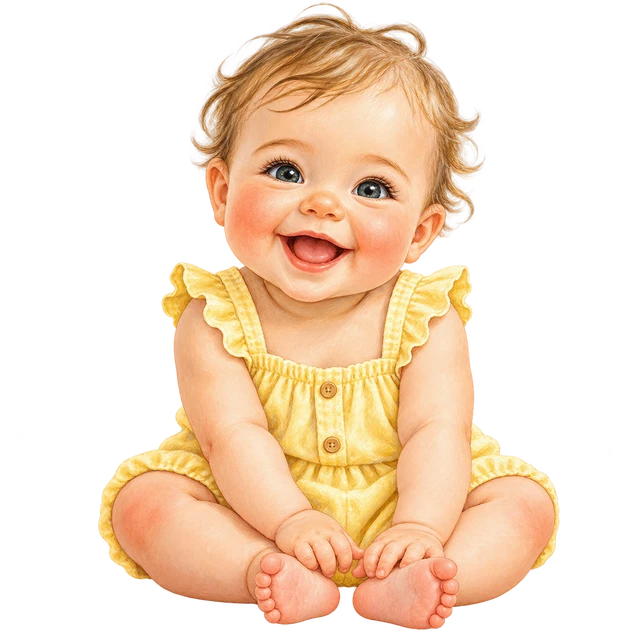
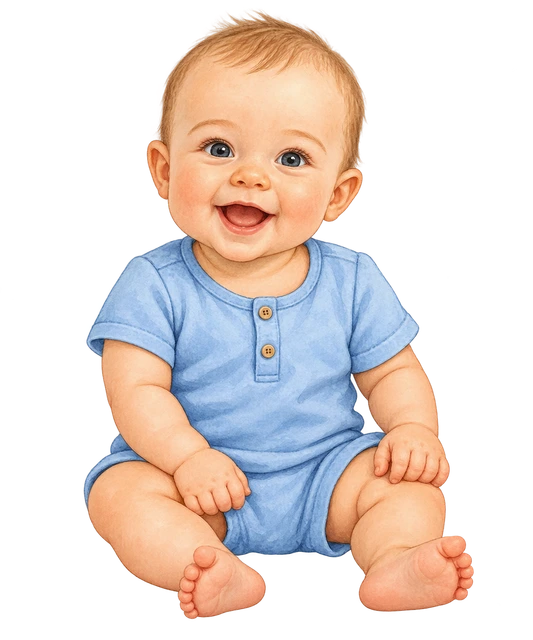
Replace baby illustration and add Genially cover Забрось шайбу

diff --git a/ART-UPDATE.md b/ART-UPDATE.md
@@ -1,0 +1,11 @@
+## Обновлённый малыш и обложка «Забрось шайбу!»
+
+Встроенный ImageGen. Малыш заменён на мальчика-младенца в простом голубом комбинезоне. Обложка — отдельный файл для Genially, игровой интерфейс не менялся.
+
+### Baby
+
+Use case: illustration-story. Educational Russian vocabulary picture for word малыш. A single unmistakably very young BABY BOY aged 6-8 months, sitting with chubby little legs, round infant face, very sparse short soft light brown baby hair, small ears, natural cheerful smile, realistic infant proportions. Wearing a simple powder-blue short-sleeved baby romper with shorts and two tiny buttons, bare feet. NO dress, NO ruffles, NO bows, NO long hair, NO older toddler. Premium soft hand-painted gouache children's book illustration, warm natural skin, gentle tactile painted texture, refined bright colors, readable clean silhouette. Full body centered on genuinely transparent background, no props, no text, no backdrop. Match soft warm illustrated vocabulary cards of hockey game.
+
+### Cover
+
+Use case: illustration-story. Create a finished premium illustrated cover image for a children's hockey speech game, for insertion in Genially. LANDSCAPE 16:9. Use attached arena as style and palette reference: soft hand-painted gouache, textured luminous aqua ice, warm cream, coral red, deep navy, cozy golden arena lights, softly painted audience. Compose a beautiful inviting hockey rink with coral-red hockey goal in middle distance, a black puck and correctly oriented hockey stick in foreground along the lower edge, blade on ice, handle rising toward upper right. Keep uncluttered. The exact Russian title is centered prominently in the middle of the entire cover in two balanced lines: 'Забрось' then 'шайбу!'. Spell exactly З А Б Р О С Ь / Ш А Й Б У ! . Large beautiful rounded bold Cyrillic lettering, deep navy with subtle warm cream outline, softly hand-lettered but perfectly legible. Title is the focal point, occupies middle 55% width, integrated in composition, generous negative space behind it. No other words, no labels, no buttons, no interface, no logos, no watermark. Professional children's book art direction, refined bright soft color, no glossy 3D. Deliver a complete polished cover, not a screenshot or mockup.

diff --git a/README.md b/README.md
@@ -56,3 +56,8 @@ CHROME_PATH="/path/to/chrome" node tests/browser.cjs
 `assets/` — 19 оригинальных иллюстраций, созданных встроенным ImageGen и оптимизированных в WebP с сохранением прозрачности. Художественное задание сохранено в `ART-PROMPTS.md`. CSS применяется к интерфейсу, трансформациям и разрешённой линией прицеливания; игровые объекты не рисуются CSS/SVG/Canvas.
 
 `audio/` — пять отдельных оригинальных PCM WAV: удар, скольжение, штанга, гол, финал. Их воспроизводимый синтез — `scripts/audio.cjs`. Громкость ограничена, звук отключается кнопкой вверху.
+
+
+## Обложка для Genially
+
+[Скачать обложку «Забрось шайбу!»](covers/cover-genially.jpg) — JPG, 1920 × 1080, 16:9. Отдельная обложка для вставки в презентацию. Карточка «малыш» обновлена: мальчик-младенец в голубом комбинезоне. Художественные задания: `ART-UPDATE.md`.
